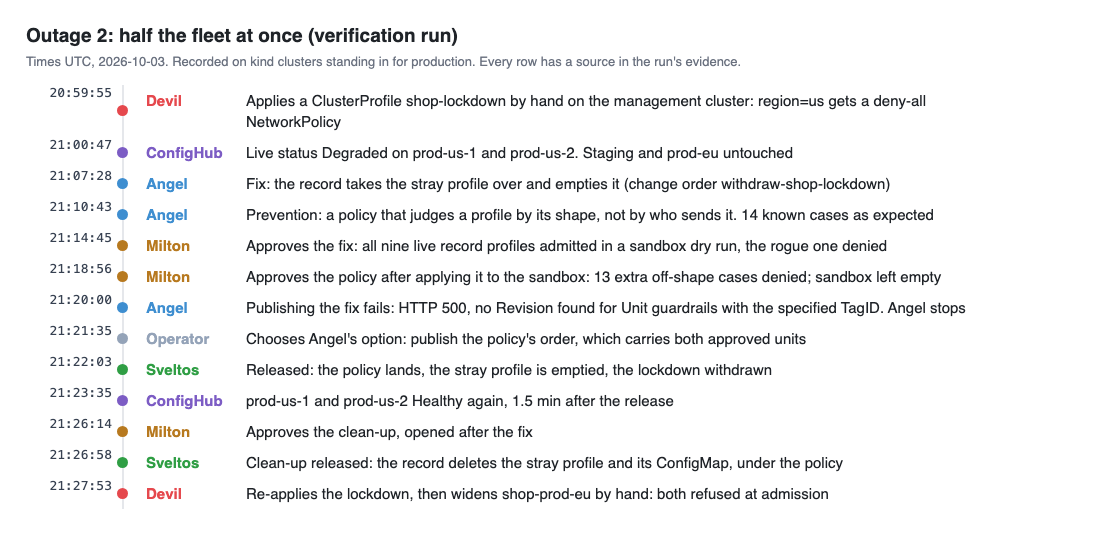
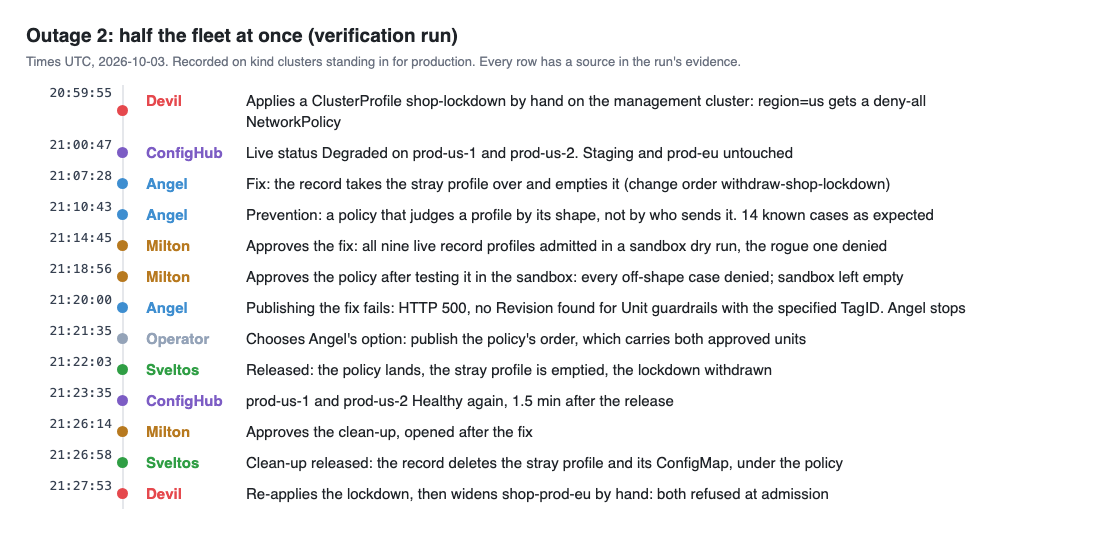
demo/diary: corrections from a read-only review
The verification run began on a release candidate; the first run's
identity check decoded the token's subject by hand; Milton's figures and
quotes are attributed as its notes say; Devil's ConfigMap was created,
only its profile writes were refused; the leaked token expires rather
than expired.

Changed region(s): [[0.3709, 0.4901, 0.8655, 0.5207]]

diff --git a/demo/diary/first-run.md b/demo/diary/first-run.md
@@ -59,16 +59,14 @@ user(s), not by an author of the change".
 
 **11:26 to 11:29. The first approvals.** The approver approved staging, then
 prod, in a chat with the operator. The operator recorded each approval under
-the approver's own identity, with the approver's words as the note. The command
-is the same every time:
+the approver's own identity. Recording an approval has this shape:
 
 ```bash
-cub variant approve --change-order chaos-shop-base/onboard-d244df9f --stage staging \
-  --note 'the approver in chat: "..."'
+cub variant approve --change-order chaos-shop-base/onboard-d244df9f --stage staging --note "<the approver's words>"
 ```
 
-Angel then published each stage, for example
-`cub release publish chaos-shop-staging --revision ChangeOrder:chaos-shop-base/onboard-d244df9f`.
+Angel's onboarding script then published each stage, the way every release in
+this demo is published: `cub release publish <space> --revision ChangeOrder:<order>`.
 
 **11:30. The handover.** The management cluster's delivery profiles now come
 from ConfigHub. The record `chaos-management` holds them, and one root
@@ -205,7 +203,7 @@ What outage 1 showed:
 - Angel had the fix in 11 minutes and the policy in 22. The preview showed
   which had to go first, before anything shipped.
 - Nothing reached a cluster without a named person's approval. Every release is
-  recorded with who published it, and every approval with its note.
+  recorded with who published it, and every approval with who recorded it.
 
 ## Outage 2: half the fleet at once
 
@@ -262,13 +260,11 @@ the policy reads who sends the request, and a configuration does not say that.
 **15:28. The operator's review finds B wrong.** Before the approver saw
 anything, the operator checked the identity B exempted. B exempted
 `register-mgmt-cluster`, the job that registered the cluster. Sveltos writes to
-the management cluster as another identity. The operator decoded only the
-token's subject, never the token:
-
-```bash
-bash $DEMO/proof/token-subject.sh kind-chaos-mgmt mgmt mgmt-sveltos-kubeconfig re-kubeconfig
-system:serviceaccount:projectsveltos:projectsveltos
-```
+the management cluster as another identity. The operator read the kubeconfig
+Sveltos holds for the management cluster (Secret
+`mgmt/mgmt-sveltos-kubeconfig`) and decoded only its token's subject, never the
+token: `system:serviceaccount:projectsveltos:projectsveltos`. Readers can
+repeat the check with `proof/token-subject.sh`, written after this run.
 
 Released, B would have refused the record's own releases. Tested in the
 sandbox by impersonation, the policy's logic held, 10 cases of 10: only the
@@ -313,7 +309,8 @@ its ConfigMap, under the new policy, at 16:20:33.
 ![A, B2 and C2 released; five orders aborted, each with its reason](images/r1-26-outage2-released.jpg)
 
 **16:23. Devil tries again**: the lockdown once more, then a hand edit that
-widens `shop-prod-eu` to `region=us`. Both were refused:
+widens `shop-prod-eu` to `region=us`. Both profile writes were refused. (The
+ConfigMap, which the policy does not cover, was created, and Devil deleted it.)
 
 ```
 Error from server (Forbidden): clusterprofiles.config.projectsveltos.io "shop-prod-eu" is forbidden:
@@ -376,12 +373,12 @@ three prod clusters at 17:10:44. Prod ran at 40Mi, healthy.
 **17:15. Devil, now a developer**, gave `api` a response cache of up to 32 MiB.
 The change went through the same workflow, staging first.
 
+![Before the cache's staging release: prod at 40Mi and one release behind; staging holding the cache, unreleased](images/r1-29-outage3-40mi.jpg)
+
 **17:30 to 17:35. Staging says yes.** The approver approved the cache for
 staging, and Devil released it at 17:30:59. Three minutes later `api` used 44.8
 to 45.9 MiB under its 128Mi limit, Healthy. The prod approval was recorded only
 after staging had run it Healthy.
-
-![Prod at 40Mi and one release behind; staging with the cache waiting to release](images/r1-29-outage3-40mi.jpg)
 
 **17:36:20. Prod says no.** The cache reached the three prod clusters, and
 within two minutes `api` was OOMKilled at 40Mi:
@@ -473,7 +470,7 @@ What outage 3 showed:
   (Issue #105, PR #106.)
 - **20:04. A findings report goes to the ConfigHub team.** It lists eight
   items, each with a check anyone can rerun. They are in the to-do list below.
-- **20:13. `cub sveltos` v0.13.0 is released**, with this folder: the parity
+- **20:13. `cub sveltos` v0.13.0 is released**, with `demo/`: the parity
   check, named approvers, the first-policy preview, and `demo/` with every
   prompt and script, an agent approver (Milton) and a clean-up. (PR #107.)
 - **Before publishing**, names were taken out of the transcripts and the
@@ -490,7 +487,7 @@ October.
 | Ship the parity check and named approvers | Outage 3's prevention ran on a development build | Done: v0.13.0 |
 | Let a reader run it all again, with an agent approver and a clean-up | So the claims can be checked, not taken on trust | Done: `demo/`, then [the verification run](verification-run.md) |
 | Keep names out of the published record | The repository rule against personal names | Done before publishing |
-| Revoke the token Devil's `--debug` printed | It was valid until 4 October, 11:02 | No command revokes a token or rotates a worker secret. It expired on its own. The agents may no longer use `--debug` |
+| Revoke the token Devil's `--debug` printed | It was valid until 4 October, 11:02 | No command revokes a token or rotates a worker secret. It expires on 4 October at 11:02 UTC. The agents may no longer use `--debug` |
 | Report what ConfigHub got wrong | The team asked for the findings | Done: 8 items in #product. Answers are in [the verification diary](verification-run.md#to-do-after-the-verification-run) |
 | A change order whose own summary shows no changes | An edit made before the order rode into prod unseen (outage 3) | Reported. ConfigHub's answer: `cub changeorder get` does not show unit diffs, so read `cub unit diff` on each Space. The demo's approver now does |
 | YAML changes a folded string's value | Blank lines were added inside a CEL expression at each hop (outage 1) | Reported. ConfigHub traced it to kustomize's YAML code, upstream |

diff --git a/demo/diary/verification-run.md b/demo/diary/verification-run.md
@@ -8,7 +8,8 @@ before. **The operator**, a Claude Code session acting for the person who ran
 the demo, started each step from the scenarios.
 
 Kind clusters stand in for production. All times are UTC. Versions:
-`cub sveltos` v0.13.0 (installed from the release), `cub` v0.8.1, ConfigHub
+`cub sveltos` v0.13.0 (a release candidate through onboarding, then the release,
+installed at 20:14), `cub` v0.8.1, ConfigHub
 server v0.8.1, Sveltos v1.15.0, kind v0.31.0, Claude Code 2.1.285 with
 `claude-opus-5-5`.
 
@@ -36,7 +37,7 @@ has the screenshots.
 
 ## Setup: seven minutes
 
-**19:15 to 19:22.** The README's setup commands ran as written:
+**19:16 to 19:22.** The README's setup commands ran as written:
 
 ```bash
 source demo/env.sh
@@ -73,6 +74,9 @@ $ cub variant approve --change-order chaos-shop-base/onboard-d244df9f --stage st
 Failed: HTTP 403 ... cannot use ChangeOrder; Use permission required: permission denied
 ```
 
+On the platform's order two minutes later, the same refusal, and Milton held
+its line:
+
 > I did not try approving the Space directly instead: that would step around a
 > permission set on this change order, and I was told to approve nothing else.
 > (Milton)
@@ -105,7 +109,8 @@ their permissions again, set the gates and started the reporter. The gates:
   never from an author;
 - the management record has a workflow of its own.
 
-All nine Spaces were Synced and Healthy at 20:17:51.
+Live status flowed into ConfigHub from 20:17:51, and onboarding ended with all
+nine Spaces Synced and Healthy.
 
 ## Outage 1: a rotation nobody picked up
 
@@ -189,9 +194,9 @@ Its note named the risk: "rolling back the web fix is refused until this is
 demoted first."
 
 **20:46. Devil tries again, on staging.** Reloader restarted `web` on the
-second rotation. The new pod failed its readiness check until `api`'s mounted
-copy of the token refreshed, while the old pods kept serving: "the rollout is
-stalled rather than the service being down." Then `web-copy` was refused:
+second rotation. The new pod failed its readiness check at first, while the
+old pods kept serving: "the rollout is stalled rather than the service being
+down." Milton later saw the new pods go Ready. Then `web-copy` was refused:
 
 ```
 ValidatingAdmissionPolicy 'secret-env-needs-reloader' with binding 'secret-env-needs-reloader' denied request:
@@ -253,8 +258,10 @@ The server disagreed, as 21:20 shows.
 nine live record profiles and the emptied `shop-lockdown` against the policy in
 the sandbox: all admitted, and the rogue profile denied. For the policy, it
 applied only the policy to the sandbox, which its instructions now allow. It
-then tried 13 off-shape profiles of its own, all denied, and emptied the
-sandbox again. It also named a gap for later: `deploymentType`, `path` and
+then tried the known cases and off-shape profiles of its own, such as a label
+selector, two `clusterRefs` or a Cluster API reference. In its note: "the rogue
+shop-lockdown, namespaced Profiles and 13 other off-shape cases are denied;
+sandbox left empty". It also named a gap for later: `deploymentType`, `path` and
 `templateResourceRefs` on a record-shaped profile are not pinned.
 
 ![Milton tests the policy in the sandbox](images/r2-o2-milton.png)

diff --git a/demo/recording/verification-2026-10-03.md b/demo/recording/verification-2026-10-03.md
@@ -2,7 +2,8 @@
 
 A second run, made from [the demo's README](../README.md) alone, with **Milton approving
 every release** and no person approving anything. Versions as in the README:
-`cub sveltos` v0.13.0 (installed from the release), `cub` v0.8.1, ConfigHub
+`cub sveltos` v0.13.0 (a release candidate through onboarding, then the release,
+installed at 20:14), `cub` v0.8.1, ConfigHub
 server v0.8.1, Sveltos v1.15.0, kind v0.31.0, Claude Code 2.1.285.
 
 | Part | Outcome |

diff --git a/demo/README.md b/demo/README.md
@@ -25,8 +25,8 @@ happened, with screenshots and the agents' own commands:
 - [the verification run](diary/verification-run.md), made from this README with
   Milton approving everything. There Milton refused the change behind outage 3.
 
-[recording/](recording/README.md) has the transcripts and ConfigHub's record of
-both.
+[recording/](recording/README.md) has the first run's transcripts, and
+ConfigHub's record of both runs.
 
 ## Versions
 
